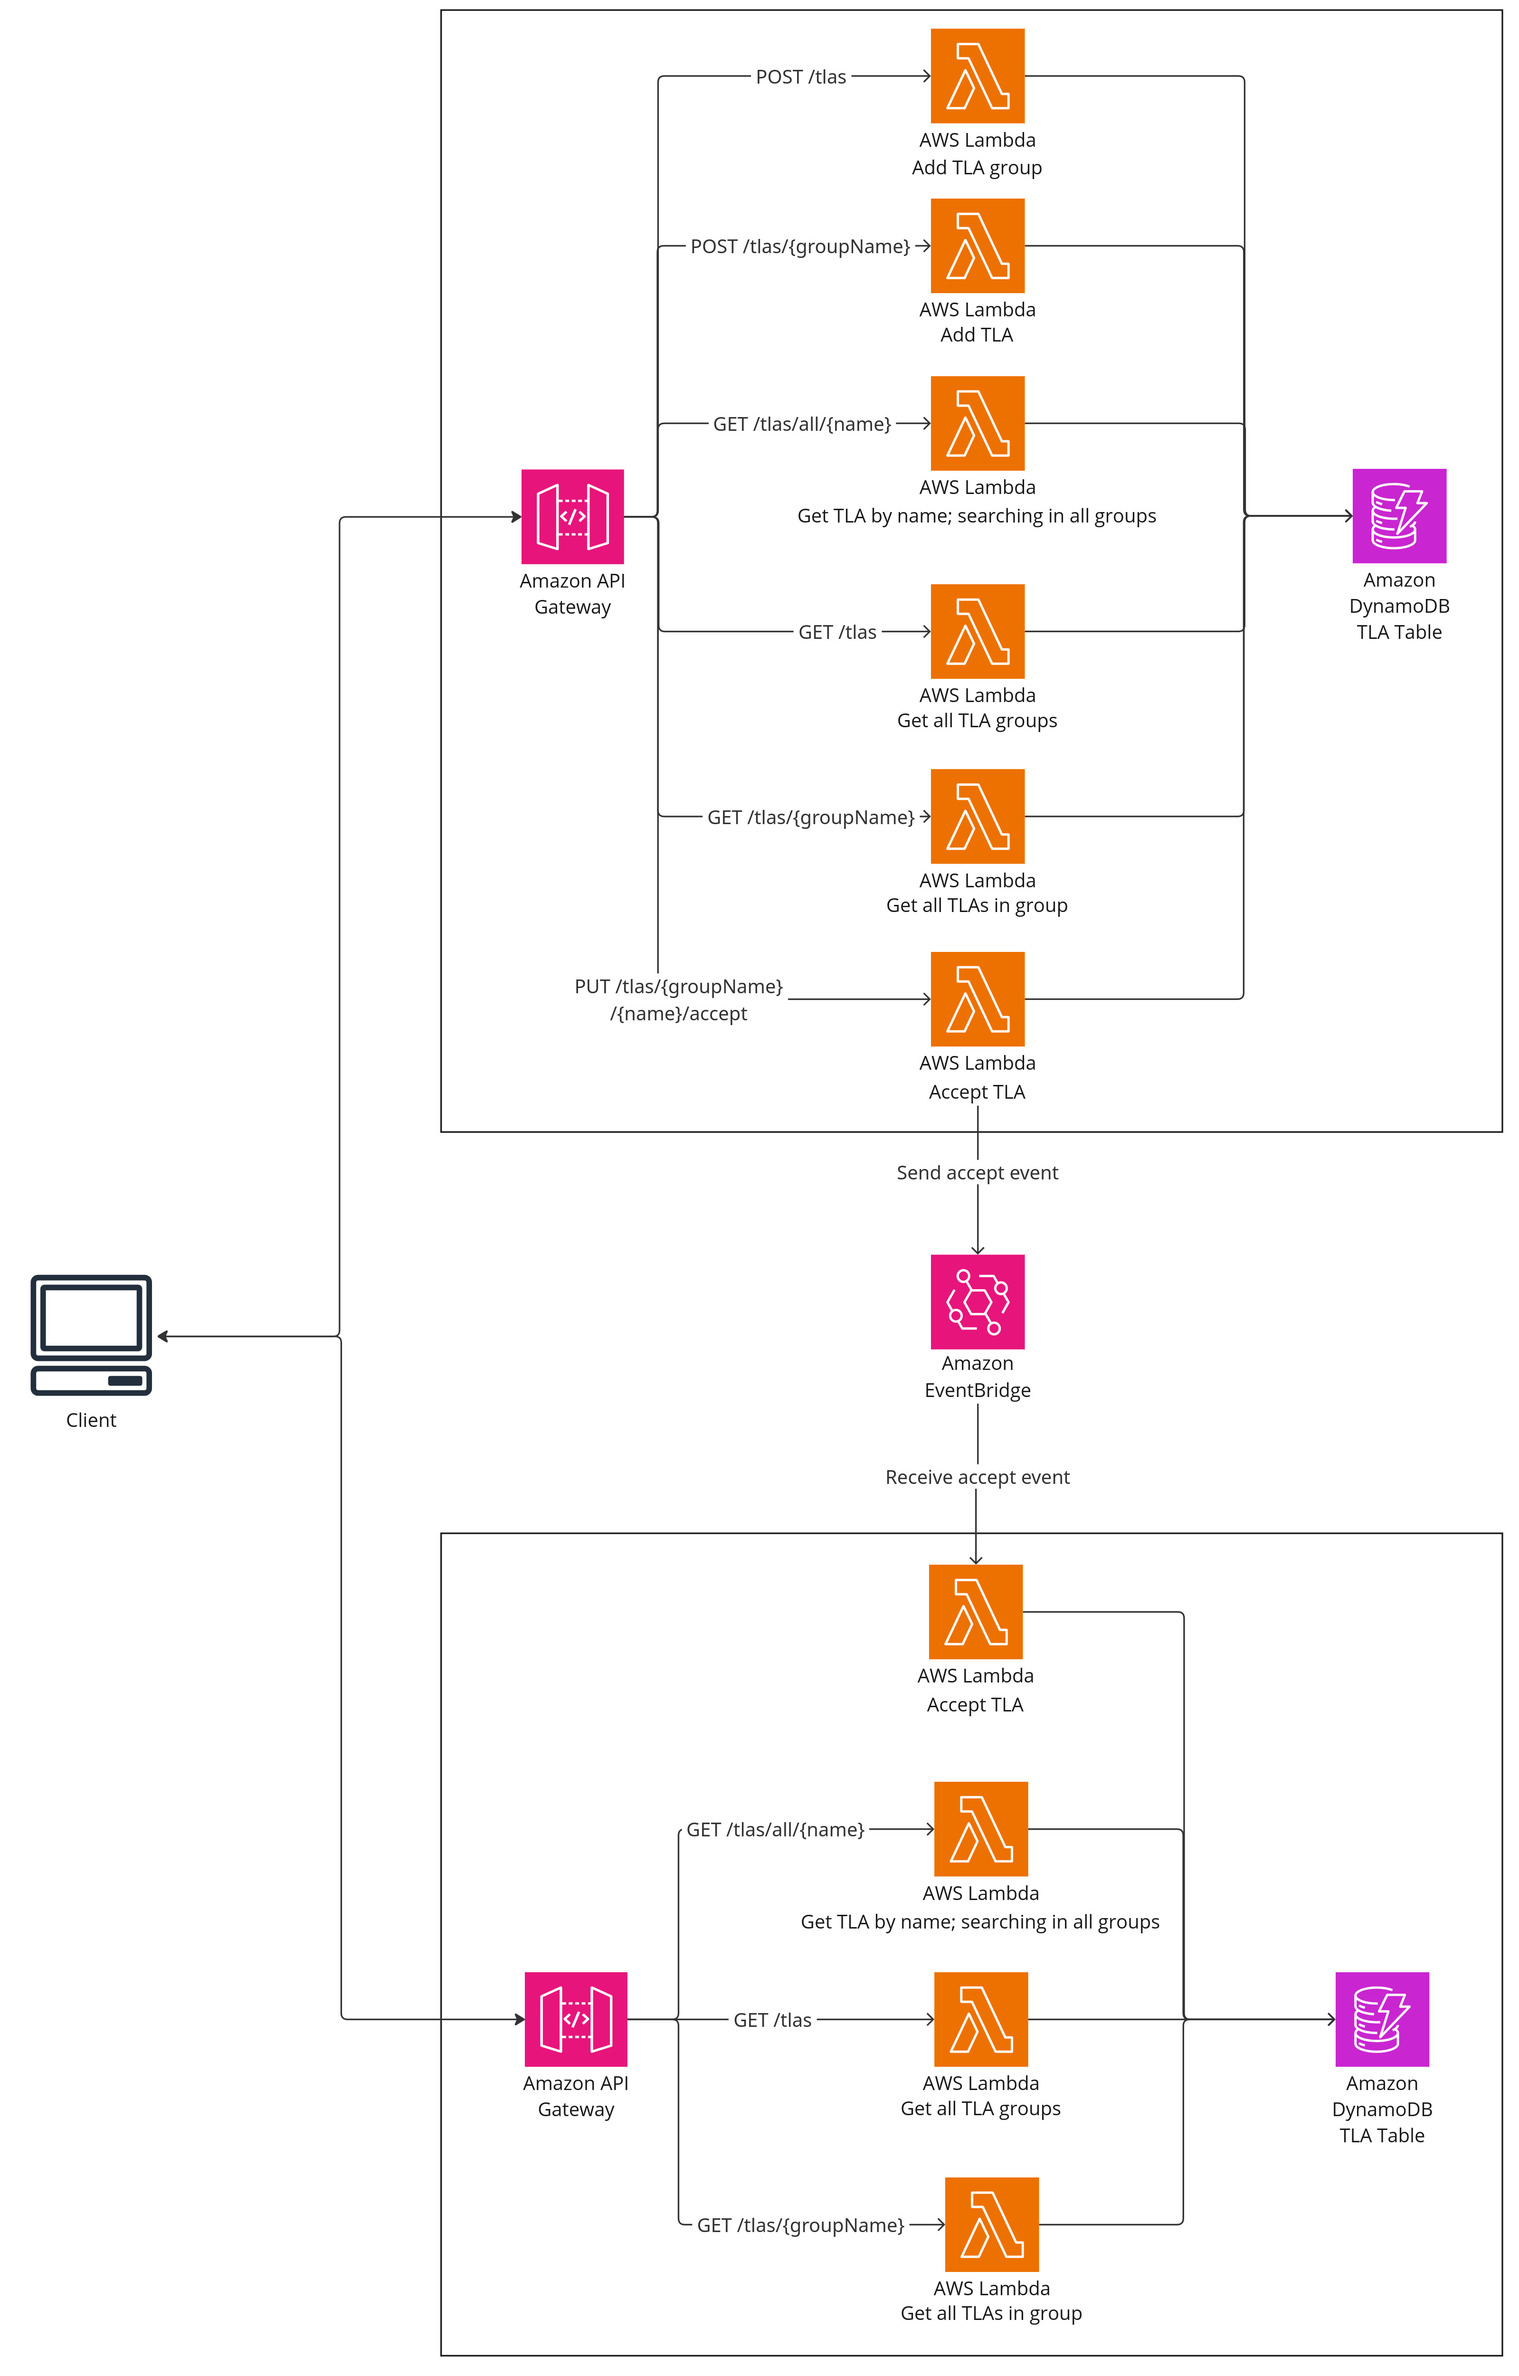
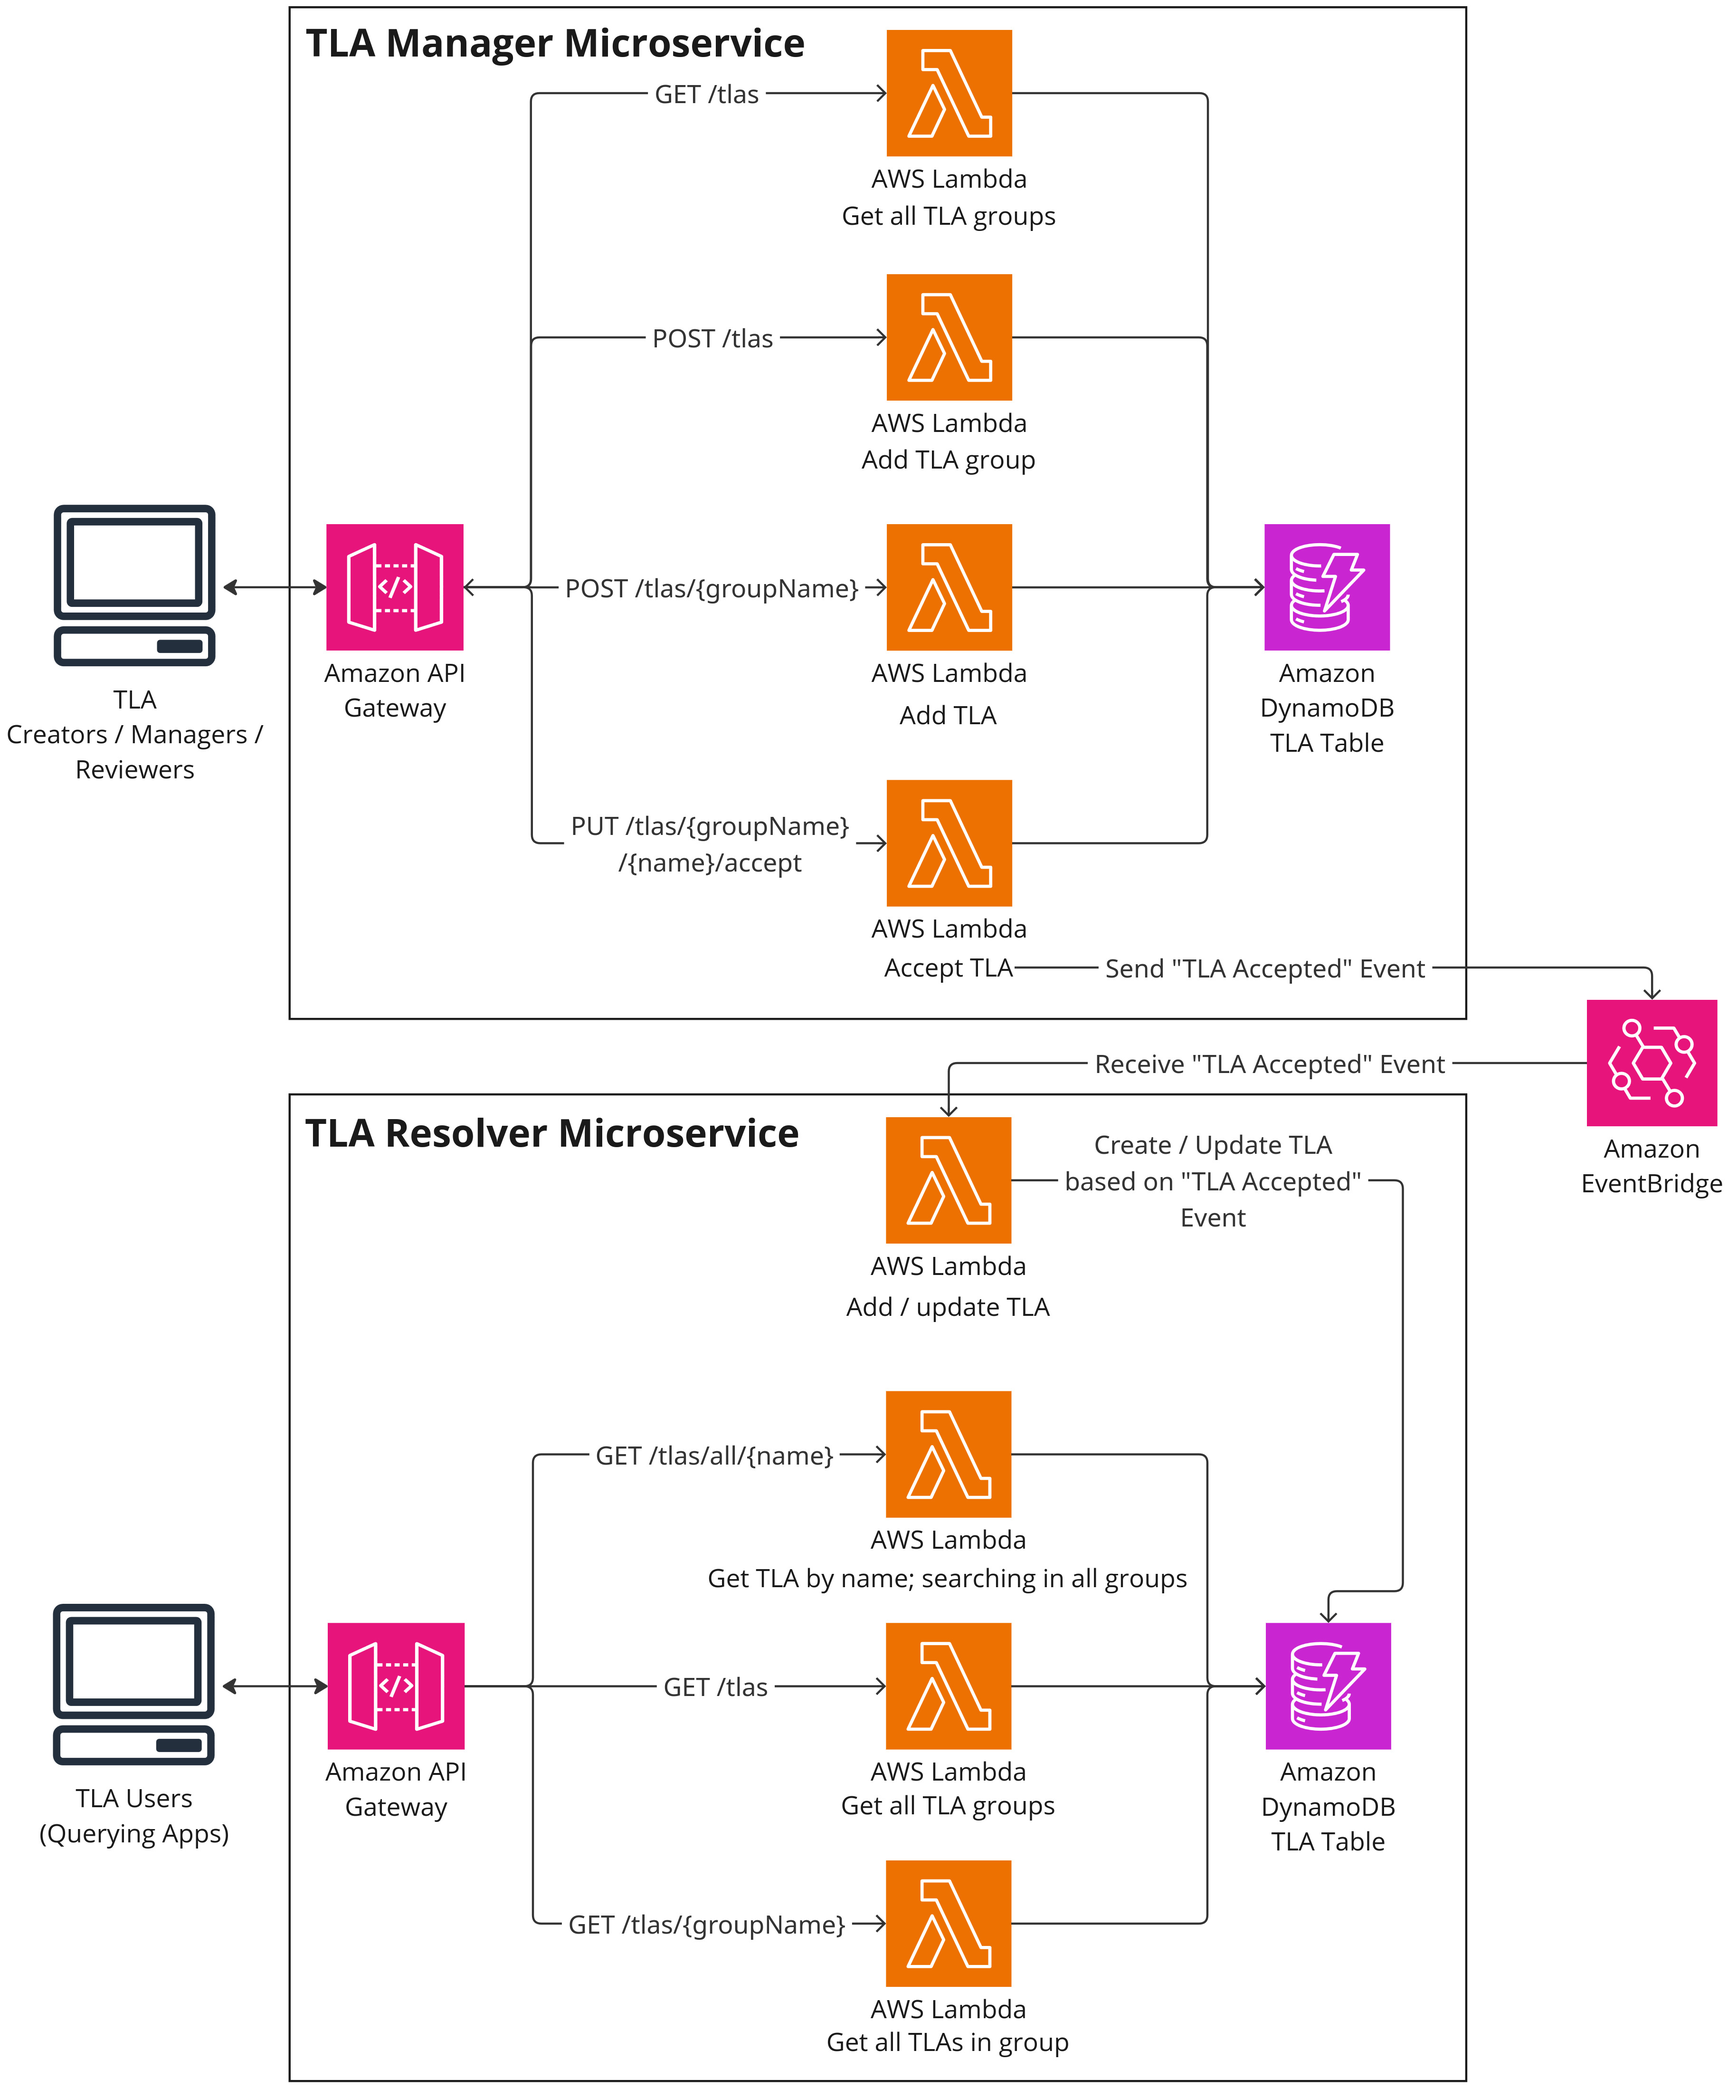
Reduce queries in manager microservice (#3)

diff --git a/manager/src/TLAManager.Services/TlaGroupsApplicationService.cs b/manager/src/TLAManager.Services/TlaGroupsApplicationService.cs
@@ -18,26 +18,6 @@ public class TlaGroupsApplicationService(ITLAGroupRepository repository) : ITlaG
             .ToList();
     }
 
-    public async Task<List<TLAGroup>> FindAllTlasByNameAsync(string name)
-    {
-        var groups = await FindAllTlaGroupsAsync(TLAStatus.Accepted);
-        return groups.Where(group => group.Tlas.Any(tla => tla.Name.Name.Equals(name)))
-            .Select(group => new TLAGroup(
-                group.Name,
-                group.Description,
-                new List<ThreeLetterAbbreviation>
-                {
-                    group.Tlas.First(tla => tla.Name.Name.Equals(name))
-                }
-            ))
-            .ToList();
-    }
-
-    public async Task<TLAGroup> FindGroupByNameAsync(string name)
-    {
-        return FilterTlaStatus(await GetGroupByNameAsync(name), TLAStatus.Accepted);
-    }
-
     public async Task<TLAGroup> AddTlaGroupAsync(TLAGroup tlaGroup)
     {
         if (await TlaGroupAlreadyExistsAsync(tlaGroup.Name))

diff --git a/manager/src/TLAManager.Services/ITlaGroupsApplicationService.cs b/manager/src/TLAManager.Services/ITlaGroupsApplicationService.cs
@@ -6,8 +6,6 @@ public interface ITlaGroupsApplicationService
 {
     Task<List<TLAGroup>> FindAllTlaGroupsAsync();
     Task<List<TLAGroup>> FindAllTlaGroupsAsync(TLAStatus status);
-    Task<List<TLAGroup>> FindAllTlasByNameAsync(string name);
-    Task<TLAGroup> FindGroupByNameAsync(string name);
     Task<TLAGroup> AddTlaGroupAsync(TLAGroup tlaGroup);
     Task<TLAGroup> AddTlaAsync(string groupName, ThreeLetterAbbreviation tla);
     Task<TLAGroup> AcceptTlaAsync(string groupName, string tlaName);

diff --git a/README.md b/README.md
@@ -6,7 +6,7 @@ This repository implements the [Three Letter Abbreviations (TLA) Sample Applicat
 It can easily be deployed on AWS. 
 The following graphic gives an architecture overview of the app:
 
-![TLA Sample App - Implemented Serverless](./docs/images/Architecture_Overview.png)
+![TLA Sample App - Implemented Serverless](./docs/images/Architecture_Overview.jpg)
 
 The app uses the following AWS services:
  * **Amazon API Gateway** now serves the RESTful HTTP API to access the TLA's.
@@ -144,9 +144,7 @@ _Note_ that you will need to replace `{baseUrl}` with the URLs you get from `sls
 | /tlas                           | GET    | Get all TLA groups including their TLAs (accepted TLAs only).                                                                                                                                 |
 | /tlas?status=PROPOSED           | GET    | Get TLAs in PROPOSED state.                                                                                                                                                                   |
 | /tlas                           | POST   | Create a new TLA group (see sample payload below). Containing TLAs will be in PROPOSED state.                                                                                                 |
-| /tlas/{groupName}               | GET    | Get all TLAs of a specific group.                                                                                                                                                             |
 | /tlas/{groupName}               | POST   | Create a new TLA within an existing group (see sample payload below). The created TLA will be in PROPOSED state.                                                                              |
-| /tlas/all/{name}                | GET    | Search for a TLA over all groups. This query can return multiple TLAs as a single TLA is only unique within one group.                                                                        |
 | /tlas/{groupName}/{name}/accept | PUT    | Accept a proposed TLA ([state transition operation](https://microservice-api-patterns.org/patterns/responsibility/operationResponsibilities/StateTransitionOperation): PROPOSED -> ACCEPTED). |
 
 #### Get All TLA Groups
@@ -225,70 +223,6 @@ The `/tlas` (GET) endpoint returns all TLAs of all TLA groups that are in the `A
 
 Note that the endpoint returns all TLAs in state `ACCEPTED` by default.
 Use the query parameter `status` with the value `PROPOSED` to list TLAs in the `PROPOSED` state (see example below under "Query Proposed TLAs").
-
-#### Get TLAs of a Specific Group
-The endpoint `/tlas/{groupName}` (GET) returns all TLAs of a specific group.
-
-**Sample CURL**: `curl -X GET {baseUrl}/tlas/DDD`
-
-**Sample output:**
-
-```json
-{
-    "name": "DDD",
-    "description": "Domain-Driven Design",
-    "tlas": [
-        {
-            "name": "ACL",
-            "meaning": "Anticorruption Layer",
-            "alternativeMeanings": []
-        },
-        {
-            "name": "CF",
-            "meaning": "Conformist",
-            "alternativeMeanings": []
-        },
-        {
-            "name": "OHS",
-            "meaning": "Open Host Service",
-            "alternativeMeanings": []
-        },
-        {
-            "name": "PL",
-            "meaning": "Published Language",
-            "alternativeMeanings": []
-        },
-        {
-            "name": "SK",
-            "meaning": "Shared Kernel",
-            "alternativeMeanings": []
-        }
-    ]
-}
-```
-
-#### Search TLA in All Groups
-With the endpoint `/tlas/all/{name}` (GET) you can search for a TLA through all groups. Note that this might return multiple results, as TLAs are only unique within one group.
-
-**Sample CURL**: `curl -X GET {baseUrl}/tlas/all/ACL`
-
-**Sample output:**
-
-```json
-[
-    {
-        "name": "DDD",
-        "description": "Domain-Driven Design",
-        "tlas": [
-            {
-                "name": "ACL",
-                "meaning": "Anticorruption Layer",
-                "alternativeMeanings": []
-            }
-        ]
-    }
-]
-```
 
 #### Create new TLA Group
 Via `/tlas` (POST) you can create a new TLA group.
